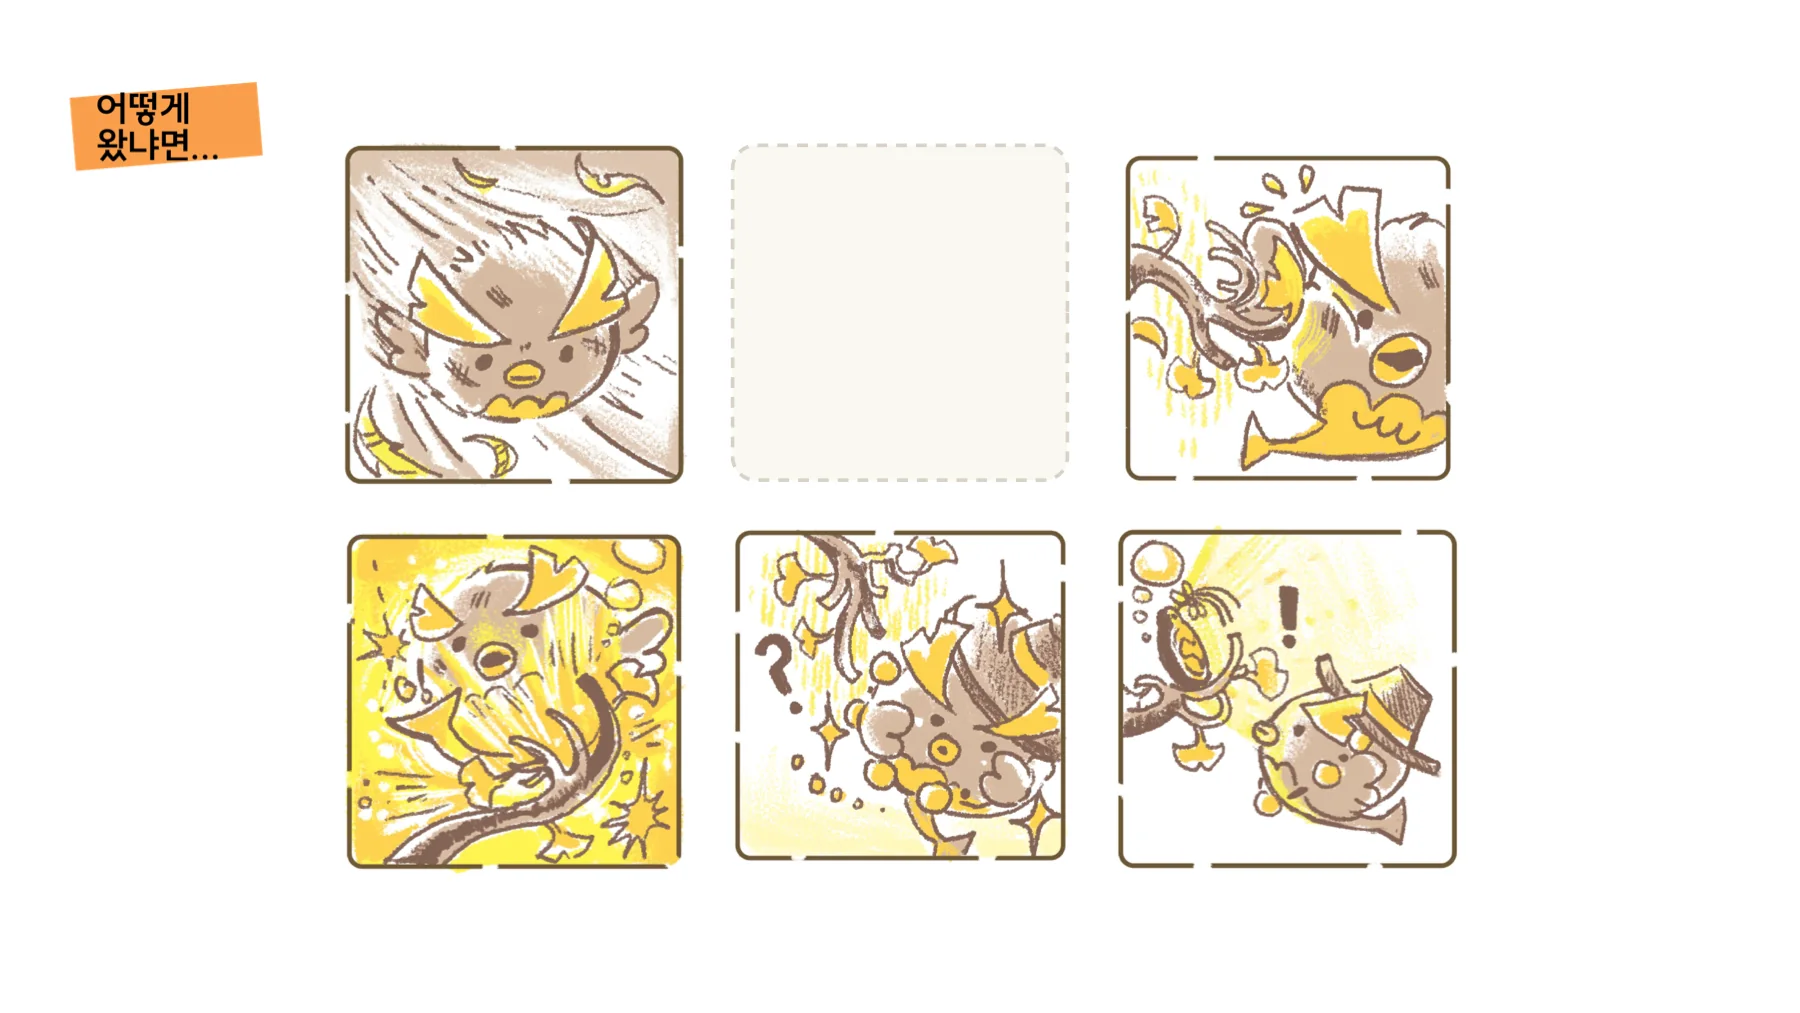
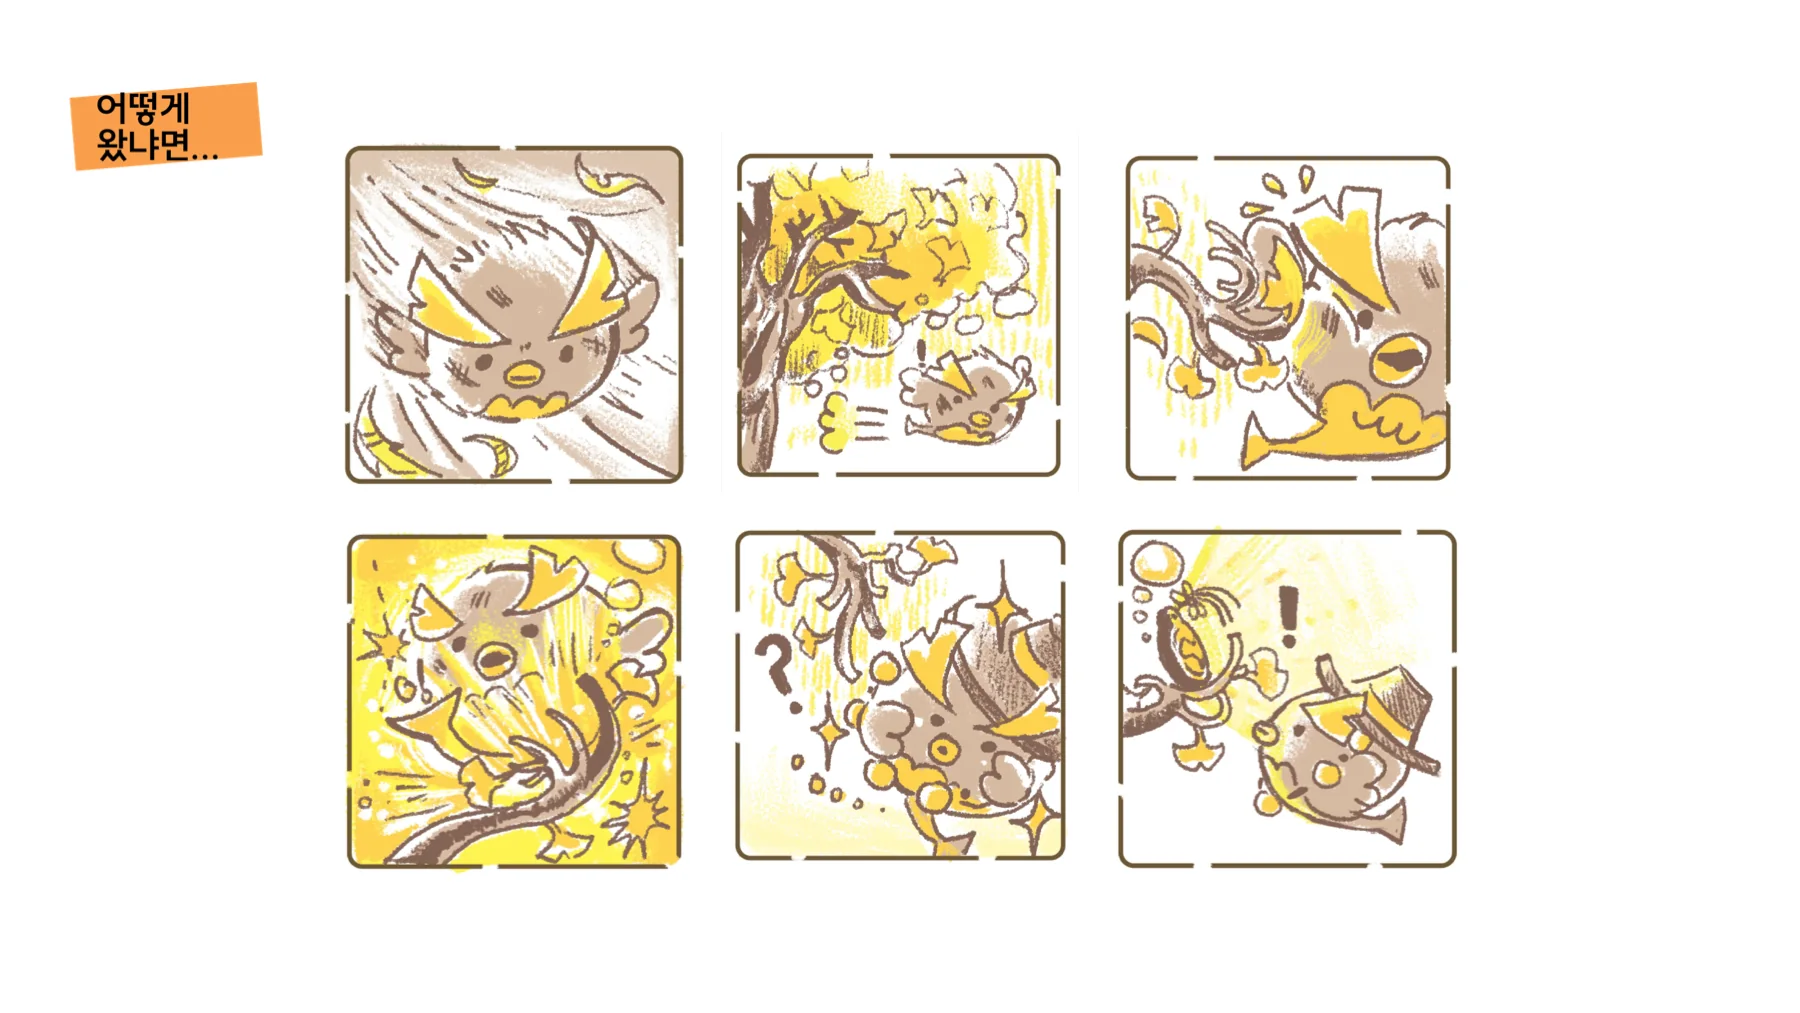
말풍선 꼬리를 아이콘 가운데에 맞춤, 오슈 6컷 만화 2번째 칸 추가

Changed region(s): [[0.4044, 0.1224, 0.5911, 0.4896]]

diff --git a/index.html b/index.html
@@ -372,7 +372,7 @@
 </button>
 
 <script>
-const IMG = {"L1": "img/L1.webp", "L10": "img/L10.webp", "L11": "img/L11.webp", "L12": "img/L12.webp", "L13": "img/L13.webp", "L14": "img/L14.webp", "L15": "img/L15.webp", "L16": "img/L16.webp", "L17": "img/L17.webp", "L18": "img/L18.webp", "L19": "img/L19.webp", "L2": "img/L2.webp", "L20": "img/L20.webp", "L21": "img/L21.webp", "L22": "img/L22.webp", "L23": "img/L23.webp", "L24": "img/L24.webp", "L25": "img/L25.webp", "L26": "img/L26.webp", "L27": "img/L27.webp", "L28": "img/L28.webp", "L29": "img/L29.webp", "L3": "img/L3.webp", "L30": "img/L30.webp", "L31": "img/L31.webp", "L32": "img/L32.webp", "L4": "img/L4.webp", "L5": "img/L5.webp", "L6": "img/L6.webp", "L7": "img/L7.webp", "L8": "img/L8.webp", "L9": "img/L9.webp", "blue/bg01": "img/blue/bg01.webp", "blue/bg03": "img/blue/bg03.webp", "blue/bg04": "img/blue/bg04.webp", "blue/bg06": "img/blue/bg06.webp", "blue/bg07": "img/blue/bg07.webp", "blue/bg08": "img/blue/bg08.webp", "blue/rel_blue": "img/blue/rel_blue.webp", "blue/rel_duck": "img/blue/rel_duck.webp", "blue/rel_lotus": "img/blue/rel_lotus.webp", "blue/rel_owl": "img/blue/rel_owl.webp", "blue/star": "img/blue/star.webp", "blue/turn_title": "img/blue/turn_title.webp", "blue/x1": "img/blue/x1.webp", "blue/x10": "img/blue/x10.webp", "blue/x11": "img/blue/x11.webp", "blue/x12_04": "img/blue/x12_04.webp", "blue/x12_06": "img/blue/x12_06.webp", "blue/x12_07": "img/blue/x12_07.webp", "blue/x14": "img/blue/x14.webp", "blue/x16": "img/blue/x16.webp", "blue/x17": "img/blue/x17.webp", "blue/x19": "img/blue/x19.webp", "blue/x2": "img/blue/x2.webp", "blue/x20": "img/blue/x20.webp", "blue/x3": "img/blue/x3.webp", "blue/x4": "img/blue/x4.webp", "blue/x5_04": "img/blue/x5_04.webp", "blue/x5_05": "img/blue/x5_05.webp", "blue/x5_06": "img/blue/x5_06.webp", "blue/x5_08": "img/blue/x5_08.webp", "blue/x6": "img/blue/x6.webp", "blue/x7": "img/blue/x7.webp", "blue/x8": "img/blue/x8.webp", "blue/x8b": "img/blue/x8b.webp", "blue/x9": "img/blue/x9.webp", "comic/blue_1": "img/comic/blue_1.webp", "comic/blue_2": "img/comic/blue_2.webp", "comic/blue_3": "img/comic/blue_3.webp", "comic/blue_4": "img/comic/blue_4.webp", "comic/blue_5": "img/comic/blue_5.webp", "comic/blue_6": "img/comic/blue_6.webp", "comic/duck_1": "img/comic/duck_1.webp", "comic/duck_2": "img/comic/duck_2.webp", "comic/duck_3": "img/comic/duck_3.webp", "comic/duck_4": "img/comic/duck_4.webp", "comic/duck_5": "img/comic/duck_5.webp", "comic/duck_6": "img/comic/duck_6.webp", "comic/lotus_1": "img/comic/lotus_1.webp", "comic/lotus_2": "img/comic/lotus_2.webp", "comic/lotus_3": "img/comic/lotus_3.webp", "comic/lotus_4": "img/comic/lotus_4.webp", "comic/lotus_5": "img/comic/lotus_5.webp", "comic/lotus_6": "img/comic/lotus_6.webp", "comic/owl_1": "img/comic/owl_1.webp", "comic/owl_3": "img/comic/owl_3.webp", "comic/owl_4": "img/comic/owl_4.webp", "comic/owl_5": "img/comic/owl_5.webp", "comic/owl_6": "img/comic/owl_6.webp", "duck/big": "img/duck/big.webp", "duck/x10": "img/duck/x10.webp", "duck/x11": "img/duck/x11.webp", "duck/x12": "img/duck/x12.webp", "duck/x15": "img/duck/x15.webp", "duck/x16": "img/duck/x16.webp", "duck/x17": "img/duck/x17.webp", "duck/x18": "img/duck/x18.webp", "duck/x19": "img/duck/x19.webp", "duck/x1_02": "img/duck/x1_02.webp", "duck/x20": "img/duck/x20.webp", "duck/x21": "img/duck/x21.webp", "duck/x23_01": "img/duck/x23_01.webp", "duck/x23_03": "img/duck/x23_03.webp", "duck/x23_04": "img/duck/x23_04.webp", "duck/x28": "img/duck/x28.webp", "duck/x2_02": "img/duck/x2_02.webp", "duck/x4": "img/duck/x4.webp", "duck/x6": "img/duck/x6.webp", "duck/x7": "img/duck/x7.webp", "duck/x9": "img/duck/x9.webp", "duck/xp": "img/duck/xp.webp", "lotus/big": "img/lotus/big.webp", "lotus/x1": "img/lotus/x1.webp", "lotus/x10": "img/lotus/x10.webp", "lotus/x11": "img/lotus/x11.webp", "lotus/x117": "img/lotus/x117.webp", "lotus/x12": "img/lotus/x12.webp", "lotus/x13": "img/lotus/x13.webp", "lotus/x14": "img/lotus/x14.webp", "lotus/x15": "img/lotus/x15.webp", "lotus/x16": "img/lotus/x16.webp", "lotus/x2": "img/lotus/x2.webp", "lotus/x25": "img/lotus/x25.webp", "lotus/x3": "img/lotus/x3.webp", "lotus/x4": "img/lotus/x4.webp", "lotus/x5": "img/lotus/x5.webp", "lotus/x6": "img/lotus/x6.webp", "lotus/x7_01": "img/lotus/x7_01.webp", "lotus/x7_03": "img/lotus/x7_03.webp", "lotus/x7_04": "img/lotus/x7_04.webp", "lotus/x8": "img/lotus/x8.webp", "lotus/xp": "img/lotus/xp.webp", "lotus/xp_copy": "img/lotus/xp_copy.webp", "map/bg_a": "img/map/bg_a.webp", "map/bg_b": "img/map/bg_b.webp", "map/bg_c": "img/map/bg_c.webp", "map/btn_12": "img/map/btn_12.webp", "map/btn_stamp": "img/map/btn_stamp.webp", "map/bubble/bonggoksa": "img/map/bubble/bonggoksa.webp", "map/bubble/bonggoksa_up": "img/map/bubble/bonggoksa_up.webp", "map/bubble/flower": "img/map/bubble/flower.webp", "map/bubble/gokgyo": "img/map/bubble/gokgyo.webp", "map/bubble/gongseri": "img/map/bubble/gongseri.webp", "map/bubble/hyeonchungsa": "img/map/bubble/hyeonchungsa.webp", "map/bubble/jijunghae": "img/map/bubble/jijunghae.webp", "map/bubble/museum": "img/map/bubble/museum.webp", "map/bubble/oeam": "img/map/bubble/oeam.webp", "map/bubble/oeam_up": "img/map/bubble/oeam_up.webp", "map/bubble/pinnacle": "img/map/bubble/pinnacle.webp", "map/bubble/sinjeongho": "img/map/bubble/sinjeongho.webp", "map/bubble/spa": "img/map/bubble/spa.webp", "map/bubble/yeonginsan": "img/map/bubble/yeonginsan.webp", "map/card_12": "img/map/card_12.webp", "map/card_stamp": "img/map/card_stamp.webp", "map/cloud": "img/map/cloud.webp", "map/f15": "img/map/f15.webp", "map/f16": "img/map/f16.webp", "map/f17": "img/map/f17.webp", "map/f18": "img/map/f18.webp", "map/line": "img/map/line.webp", "map/map": "img/map/map.webp", "map/p_bonggoksa": "img/map/p_bonggoksa.webp", "map/p_dogo": "img/map/p_dogo.webp", "map/p_flower": "img/map/p_flower.webp", "map/p_gokgyo": "img/map/p_gokgyo.webp", "map/p_gongseri": "img/map/p_gongseri.webp", "map/p_hyeonchungsa": "img/map/p_hyeonchungsa.webp", "map/p_jijunghae": "img/map/p_jijunghae.webp", "map/p_market": "img/map/p_market.webp", "map/p_museum": "img/map/p_museum.webp", "map/p_oeam": "img/map/p_oeam.webp", "map/p_onyang": "img/map/p_onyang.webp", "map/p_pinnacle": "img/map/p_pinnacle.webp", "map/p_sinjeongho": "img/map/p_sinjeongho.webp", "map/p_spavis": "img/map/p_spavis.webp", "map/p_yeonginsan": "img/map/p_yeonginsan.webp", "map/route": "img/map/route.webp", "owl/big": "img/owl/big.webp", "owl/x1": "img/owl/x1.webp", "owl/x10": "img/owl/x10.webp", "owl/x11": "img/owl/x11.webp", "owl/x13": "img/owl/x13.webp", "owl/x15": "img/owl/x15.webp", "owl/x16": "img/owl/x16.webp", "owl/x17": "img/owl/x17.webp", "owl/x18": "img/owl/x18.webp", "owl/x19_01": "img/owl/x19_01.webp", "owl/x19_03": "img/owl/x19_03.webp", "owl/x19_04": "img/owl/x19_04.webp", "owl/x28": "img/owl/x28.webp", "owl/x3": "img/owl/x3.webp", "owl/x4": "img/owl/x4.webp", "owl/x5": "img/owl/x5.webp", "owl/x6": "img/owl/x6.webp", "owl/x7": "img/owl/x7.webp", "owl/x8": "img/owl/x8.webp", "owl/x9": "img/owl/x9.webp", "owl/xp_copy": "img/owl/xp_copy.webp", "ui/scroll": "img/ui/scroll.webp", "m/blue_0_0": "img/m/blue_0_0.webp", "m/blue_1_1": "img/m/blue_1_1.webp", "m/blue_2_2": "img/m/blue_2_2.webp", "m/blue_3_3": "img/m/blue_3_3.webp", "m/blue_4_4": "img/m/blue_4_4.webp", "m/blue_5_5": "img/m/blue_5_5.webp", "m/blue_6_6": "img/m/blue_6_6.webp", "m/lotus_0_7": "img/m/lotus_0_7.webp", "m/lotus_1_8": "img/m/lotus_1_8.webp", "m/lotus_2_9": "img/m/lotus_2_9.webp", "m/lotus_3_10": "img/m/lotus_3_10.webp", "m/lotus_4_11": "img/m/lotus_4_11.webp", "m/lotus_5_12": "img/m/lotus_5_12.webp", "m/lotus_6_13": "img/m/lotus_6_13.webp", "m/duck_0_14": "img/m/duck_0_14.webp", "m/duck_1_15": "img/m/duck_1_15.webp", "m/duck_2_16": "img/m/duck_2_16.webp", "m/duck_3_17": "img/m/duck_3_17.webp", "m/duck_4_18": "img/m/duck_4_18.webp", "m/duck_5_19": "img/m/duck_5_19.webp", "m/duck_6_20": "img/m/duck_6_20.webp", "m/owl_0_21": "img/m/owl_0_21.webp", "m/owl_1_22": "img/m/owl_1_22.webp", "m/owl_2_23": "img/m/owl_2_23.webp", "m/owl_3_24": "img/m/owl_3_24.webp", "m/owl_4_25": "img/m/owl_4_25.webp", "m/owl_5_26": "img/m/owl_5_26.webp", "m/owl_6_27": "img/m/owl_6_27.webp", "font/jua-sub": "img/jua-sub.woff2"};
+const IMG = {"L1": "img/L1.webp", "L10": "img/L10.webp", "L11": "img/L11.webp", "L12": "img/L12.webp", "L13": "img/L13.webp", "L14": "img/L14.webp", "L15": "img/L15.webp", "L16": "img/L16.webp", "L17": "img/L17.webp", "L18": "img/L18.webp", "L19": "img/L19.webp", "L2": "img/L2.webp", "L20": "img/L20.webp", "L21": "img/L21.webp", "L22": "img/L22.webp", "L23": "img/L23.webp", "L24": "img/L24.webp", "L25": "img/L25.webp", "L26": "img/L26.webp", "L27": "img/L27.webp", "L28": "img/L28.webp", "L29": "img/L29.webp", "L3": "img/L3.webp", "L30": "img/L30.webp", "L31": "img/L31.webp", "L32": "img/L32.webp", "L4": "img/L4.webp", "L5": "img/L5.webp", "L6": "img/L6.webp", "L7": "img/L7.webp", "L8": "img/L8.webp", "L9": "img/L9.webp", "blue/bg01": "img/blue/bg01.webp", "blue/bg03": "img/blue/bg03.webp", "blue/bg04": "img/blue/bg04.webp", "blue/bg06": "img/blue/bg06.webp", "blue/bg07": "img/blue/bg07.webp", "blue/bg08": "img/blue/bg08.webp", "blue/rel_blue": "img/blue/rel_blue.webp", "blue/rel_duck": "img/blue/rel_duck.webp", "blue/rel_lotus": "img/blue/rel_lotus.webp", "blue/rel_owl": "img/blue/rel_owl.webp", "blue/star": "img/blue/star.webp", "blue/turn_title": "img/blue/turn_title.webp", "blue/x1": "img/blue/x1.webp", "blue/x10": "img/blue/x10.webp", "blue/x11": "img/blue/x11.webp", "blue/x12_04": "img/blue/x12_04.webp", "blue/x12_06": "img/blue/x12_06.webp", "blue/x12_07": "img/blue/x12_07.webp", "blue/x14": "img/blue/x14.webp", "blue/x16": "img/blue/x16.webp", "blue/x17": "img/blue/x17.webp", "blue/x19": "img/blue/x19.webp", "blue/x2": "img/blue/x2.webp", "blue/x20": "img/blue/x20.webp", "blue/x3": "img/blue/x3.webp", "blue/x4": "img/blue/x4.webp", "blue/x5_04": "img/blue/x5_04.webp", "blue/x5_05": "img/blue/x5_05.webp", "blue/x5_06": "img/blue/x5_06.webp", "blue/x5_08": "img/blue/x5_08.webp", "blue/x6": "img/blue/x6.webp", "blue/x7": "img/blue/x7.webp", "blue/x8": "img/blue/x8.webp", "blue/x8b": "img/blue/x8b.webp", "blue/x9": "img/blue/x9.webp", "comic/blue_1": "img/comic/blue_1.webp", "comic/blue_2": "img/comic/blue_2.webp", "comic/blue_3": "img/comic/blue_3.webp", "comic/blue_4": "img/comic/blue_4.webp", "comic/blue_5": "img/comic/blue_5.webp", "comic/blue_6": "img/comic/blue_6.webp", "comic/duck_1": "img/comic/duck_1.webp", "comic/duck_2": "img/comic/duck_2.webp", "comic/duck_3": "img/comic/duck_3.webp", "comic/duck_4": "img/comic/duck_4.webp", "comic/duck_5": "img/comic/duck_5.webp", "comic/duck_6": "img/comic/duck_6.webp", "comic/lotus_1": "img/comic/lotus_1.webp", "comic/lotus_2": "img/comic/lotus_2.webp", "comic/lotus_3": "img/comic/lotus_3.webp", "comic/lotus_4": "img/comic/lotus_4.webp", "comic/lotus_5": "img/comic/lotus_5.webp", "comic/lotus_6": "img/comic/lotus_6.webp", "comic/owl_1": "img/comic/owl_1.webp", "comic/owl_2": "img/comic/owl_2.webp", "comic/owl_3": "img/comic/owl_3.webp", "comic/owl_4": "img/comic/owl_4.webp", "comic/owl_5": "img/comic/owl_5.webp", "comic/owl_6": "img/comic/owl_6.webp", "duck/big": "img/duck/big.webp", "duck/x10": "img/duck/x10.webp", "duck/x11": "img/duck/x11.webp", "duck/x12": "img/duck/x12.webp", "duck/x15": "img/duck/x15.webp", "duck/x16": "img/duck/x16.webp", "duck/x17": "img/duck/x17.webp", "duck/x18": "img/duck/x18.webp", "duck/x19": "img/duck/x19.webp", "duck/x1_02": "img/duck/x1_02.webp", "duck/x20": "img/duck/x20.webp", "duck/x21": "img/duck/x21.webp", "duck/x23_01": "img/duck/x23_01.webp", "duck/x23_03": "img/duck/x23_03.webp", "duck/x23_04": "img/duck/x23_04.webp", "duck/x28": "img/duck/x28.webp", "duck/x2_02": "img/duck/x2_02.webp", "duck/x4": "img/duck/x4.webp", "duck/x6": "img/duck/x6.webp", "duck/x7": "img/duck/x7.webp", "duck/x9": "img/duck/x9.webp", "duck/xp": "img/duck/xp.webp", "lotus/big": "img/lotus/big.webp", "lotus/x1": "img/lotus/x1.webp", "lotus/x10": "img/lotus/x10.webp", "lotus/x11": "img/lotus/x11.webp", "lotus/x117": "img/lotus/x117.webp", "lotus/x12": "img/lotus/x12.webp", "lotus/x13": "img/lotus/x13.webp", "lotus/x14": "img/lotus/x14.webp", "lotus/x15": "img/lotus/x15.webp", "lotus/x16": "img/lotus/x16.webp", "lotus/x2": "img/lotus/x2.webp", "lotus/x25": "img/lotus/x25.webp", "lotus/x3": "img/lotus/x3.webp", "lotus/x4": "img/lotus/x4.webp", "lotus/x5": "img/lotus/x5.webp", "lotus/x6": "img/lotus/x6.webp", "lotus/x7_01": "img/lotus/x7_01.webp", "lotus/x7_03": "img/lotus/x7_03.webp", "lotus/x7_04": "img/lotus/x7_04.webp", "lotus/x8": "img/lotus/x8.webp", "lotus/xp": "img/lotus/xp.webp", "lotus/xp_copy": "img/lotus/xp_copy.webp", "map/bg_a": "img/map/bg_a.webp", "map/bg_b": "img/map/bg_b.webp", "map/bg_c": "img/map/bg_c.webp", "map/btn_12": "img/map/btn_12.webp", "map/btn_stamp": "img/map/btn_stamp.webp", "map/bubble/bonggoksa": "img/map/bubble/bonggoksa.webp", "map/bubble/bonggoksa_up": "img/map/bubble/bonggoksa_up.webp", "map/bubble/flower": "img/map/bubble/flower.webp", "map/bubble/gokgyo": "img/map/bubble/gokgyo.webp", "map/bubble/gongseri": "img/map/bubble/gongseri.webp", "map/bubble/hyeonchungsa": "img/map/bubble/hyeonchungsa.webp", "map/bubble/jijunghae": "img/map/bubble/jijunghae.webp", "map/bubble/museum": "img/map/bubble/museum.webp", "map/bubble/oeam": "img/map/bubble/oeam.webp", "map/bubble/oeam_up": "img/map/bubble/oeam_up.webp", "map/bubble/pinnacle": "img/map/bubble/pinnacle.webp", "map/bubble/sinjeongho": "img/map/bubble/sinjeongho.webp", "map/bubble/spa": "img/map/bubble/spa.webp", "map/bubble/yeonginsan": "img/map/bubble/yeonginsan.webp", "map/card_12": "img/map/card_12.webp", "map/card_stamp": "img/map/card_stamp.webp", "map/cloud": "img/map/cloud.webp", "map/f15": "img/map/f15.webp", "map/f16": "img/map/f16.webp", "map/f17": "img/map/f17.webp", "map/f18": "img/map/f18.webp", "map/line": "img/map/line.webp", "map/map": "img/map/map.webp", "map/p_bonggoksa": "img/map/p_bonggoksa.webp", "map/p_dogo": "img/map/p_dogo.webp", "map/p_flower": "img/map/p_flower.webp", "map/p_gokgyo": "img/map/p_gokgyo.webp", "map/p_gongseri": "img/map/p_gongseri.webp", "map/p_hyeonchungsa": "img/map/p_hyeonchungsa.webp", "map/p_jijunghae": "img/map/p_jijunghae.webp", "map/p_market": "img/map/p_market.webp", "map/p_museum": "img/map/p_museum.webp", "map/p_oeam": "img/map/p_oeam.webp", "map/p_onyang": "img/map/p_onyang.webp", "map/p_pinnacle": "img/map/p_pinnacle.webp", "map/p_sinjeongho": "img/map/p_sinjeongho.webp", "map/p_spavis": "img/map/p_spavis.webp", "map/p_yeonginsan": "img/map/p_yeonginsan.webp", "map/route": "img/map/route.webp", "owl/big": "img/owl/big.webp", "owl/x1": "img/owl/x1.webp", "owl/x10": "img/owl/x10.webp", "owl/x11": "img/owl/x11.webp", "owl/x13": "img/owl/x13.webp", "owl/x15": "img/owl/x15.webp", "owl/x16": "img/owl/x16.webp", "owl/x17": "img/owl/x17.webp", "owl/x18": "img/owl/x18.webp", "owl/x19_01": "img/owl/x19_01.webp", "owl/x19_03": "img/owl/x19_03.webp", "owl/x19_04": "img/owl/x19_04.webp", "owl/x28": "img/owl/x28.webp", "owl/x3": "img/owl/x3.webp", "owl/x4": "img/owl/x4.webp", "owl/x5": "img/owl/x5.webp", "owl/x6": "img/owl/x6.webp", "owl/x7": "img/owl/x7.webp", "owl/x8": "img/owl/x8.webp", "owl/x9": "img/owl/x9.webp", "owl/xp_copy": "img/owl/xp_copy.webp", "ui/scroll": "img/ui/scroll.webp", "m/blue_0_0": "img/m/blue_0_0.webp", "m/blue_1_1": "img/m/blue_1_1.webp", "m/blue_2_2": "img/m/blue_2_2.webp", "m/blue_3_3": "img/m/blue_3_3.webp", "m/blue_4_4": "img/m/blue_4_4.webp", "m/blue_5_5": "img/m/blue_5_5.webp", "m/blue_6_6": "img/m/blue_6_6.webp", "m/lotus_0_7": "img/m/lotus_0_7.webp", "m/lotus_1_8": "img/m/lotus_1_8.webp", "m/lotus_2_9": "img/m/lotus_2_9.webp", "m/lotus_3_10": "img/m/lotus_3_10.webp", "m/lotus_4_11": "img/m/lotus_4_11.webp", "m/lotus_5_12": "img/m/lotus_5_12.webp", "m/lotus_6_13": "img/m/lotus_6_13.webp", "m/duck_0_14": "img/m/duck_0_14.webp", "m/duck_1_15": "img/m/duck_1_15.webp", "m/duck_2_16": "img/m/duck_2_16.webp", "m/duck_3_17": "img/m/duck_3_17.webp", "m/duck_4_18": "img/m/duck_4_18.webp", "m/duck_5_19": "img/m/duck_5_19.webp", "m/duck_6_20": "img/m/duck_6_20.webp", "m/owl_0_21": "img/m/owl_0_21.webp", "m/owl_1_22": "img/m/owl_1_22.webp", "m/owl_2_23": "img/m/owl_2_23.webp", "m/owl_3_24": "img/m/owl_3_24.webp", "m/owl_4_25": "img/m/owl_4_25.webp", "m/owl_5_26": "img/m/owl_5_26.webp", "m/owl_6_27": "img/m/owl_6_27.webp", "font/jua-sub": "img/jua-sub.woff2"};
 // 웹 버전에서 휴대폰·태블릿이면 더 작은 이미지(img-m/)를 씀 — 메모리 절약
 if (matchMedia('(pointer: coarse)').matches) for (const k in IMG) if (/^img\/.*\.webp$/.test(IMG[k])) IMG[k] = IMG[k].replace(/^img\//, 'img-m/');
 const PAGES = {
@@ -1477,11 +1477,11 @@ const PAGES = {
     "n": 1
    },
    {
-    "box": "slot",
-    "x": 814,
-    "y": 161.5,
-    "w": 372,
-    "h": 372,
+    "src": "comic/owl_2",
+    "x": 801.2,
+    "y": 147.5,
+    "w": 397.6,
+    "cls": "comicp",
     "n": 2
    },
    {
@@ -2212,6 +2212,7 @@ const BUBBLE = { gongseri: 'gongseri', yeonginsan: 'yeonginsan', oeam: 'oeam', g
   bonggoksa: 'bonggoksa', flower: 'flower', sinjeongho: 'sinjeongho' };
 const BUBBLE_UP = { oeam: 1, bonggoksa: 1 };   // 꼬리가 아래인 그림도 있는 것 (화면 아래쪽 장소는 아이콘 위에 띄움)
 const BW = 360;   // 말풍선 폭 (2000×1125 기준)
+const TAIL_X = .4615;   // 말풍선 그림에서 꼬리의 가로 위치 (12장 모두 0.461~0.463 으로 잼)
 const bub = new Image();
 bub.className = 'mbub'; bub.alt = '';
 mstage.appendChild(bub);
@@ -2226,7 +2227,8 @@ function showBubble(k) {
   const up = BUBBLE_UP[name] && bottom + bh > 1105;
   bub.src = IMG['map/bubble/' + name + (up ? '_up' : '')];
   bub.classList.toggle('up', !!up);
-  bub.style.left = Math.min(1990 - BW, Math.max(10, cx - BW / 2)) + 'px';
+  // 말풍선 그림은 오른쪽에 그림자가 있어서 꼬리가 그림 가운데가 아니라 46.15% 지점에 있음 → 꼬리를 아이콘 가운데에 맞춤
+  bub.style.left = Math.min(1990 - BW, Math.max(10, cx - BW * TAIL_X)) + 'px';
   bub.style.top = (up ? top - bh - 6 : Math.min(1115 - bh, bottom + 2)) + 'px';
   bub.classList.remove('on'); void bub.offsetWidth; bub.classList.add('on');
 }
